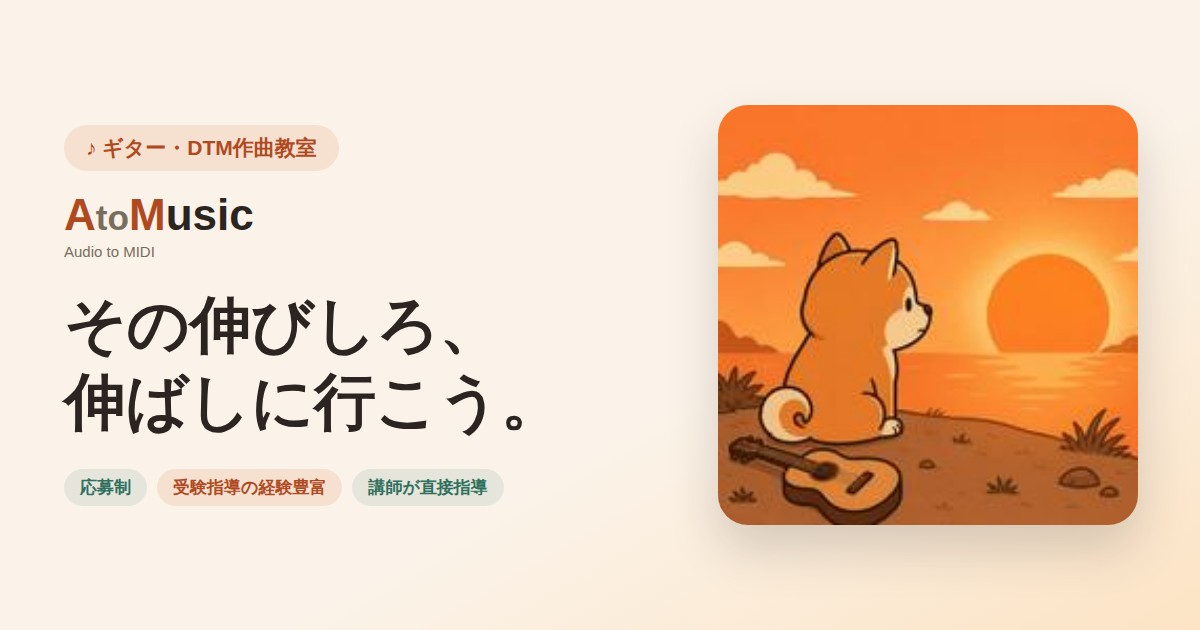
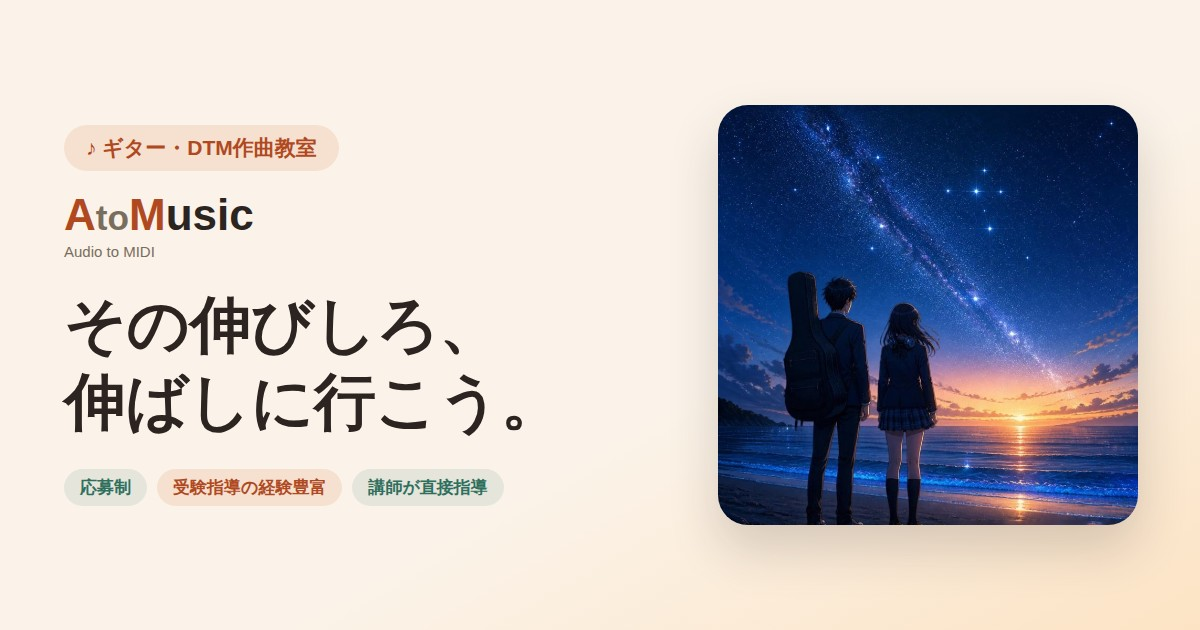
Sync lesson-site: new hero and OG image
Claude-Session: https://claude.ai/code/session_01QkwvkPgcskAKWeJFDPMNMa

Changed region(s): [[0.5858, 0.1508, 0.9558, 0.8444]]

diff --git a/lesson-site/index.html b/lesson-site/index.html
@@ -12,7 +12,7 @@
 <meta property="og:title" content="AtoMusic — その伸びしろ、伸ばしに行こう。">
 <meta property="og:description" content="受験に向けて曲を仕上げたい人、相談できる相手がほしい人——本気で上を目指す人のための作曲教室。講師は音楽大学で作曲を教えています。">
 <meta property="og:url" content="https://lesson.yasuhiro-otani.com/">
-<meta property="og:image" content="https://lesson.yasuhiro-otani.com/images/og-lesson.jpg?v=20261008b">
+<meta property="og:image" content="https://lesson.yasuhiro-otani.com/images/og-lesson.jpg?v=20261008c">
 <meta name="twitter:card" content="summary_large_image">
 <link rel="stylesheet" href="css/style.css?v=20261008h">
 </head>
@@ -59,9 +59,8 @@
     </div>
     <div>
       <div class="hero-illustration">
-        <img src="images/mascot-sunset.jpg" alt="ギターを抱えて夕日を見つめる、AtoMusicのマスコット犬「エイト」">
+        <img src="images/hero-stars.jpg" width="800" height="800" alt="夜明け前の海辺で、南十字星と天の川を見上げる、ギターケースを背負った高校生とヘッドホンをかけた高校生">
       </div>
-      <p class="mascot-caption">エイト(AtoMusicマスコット)<span>© 2026 Yasuhiro Otani</span></p>
     </div>
   </div>
 </header>
